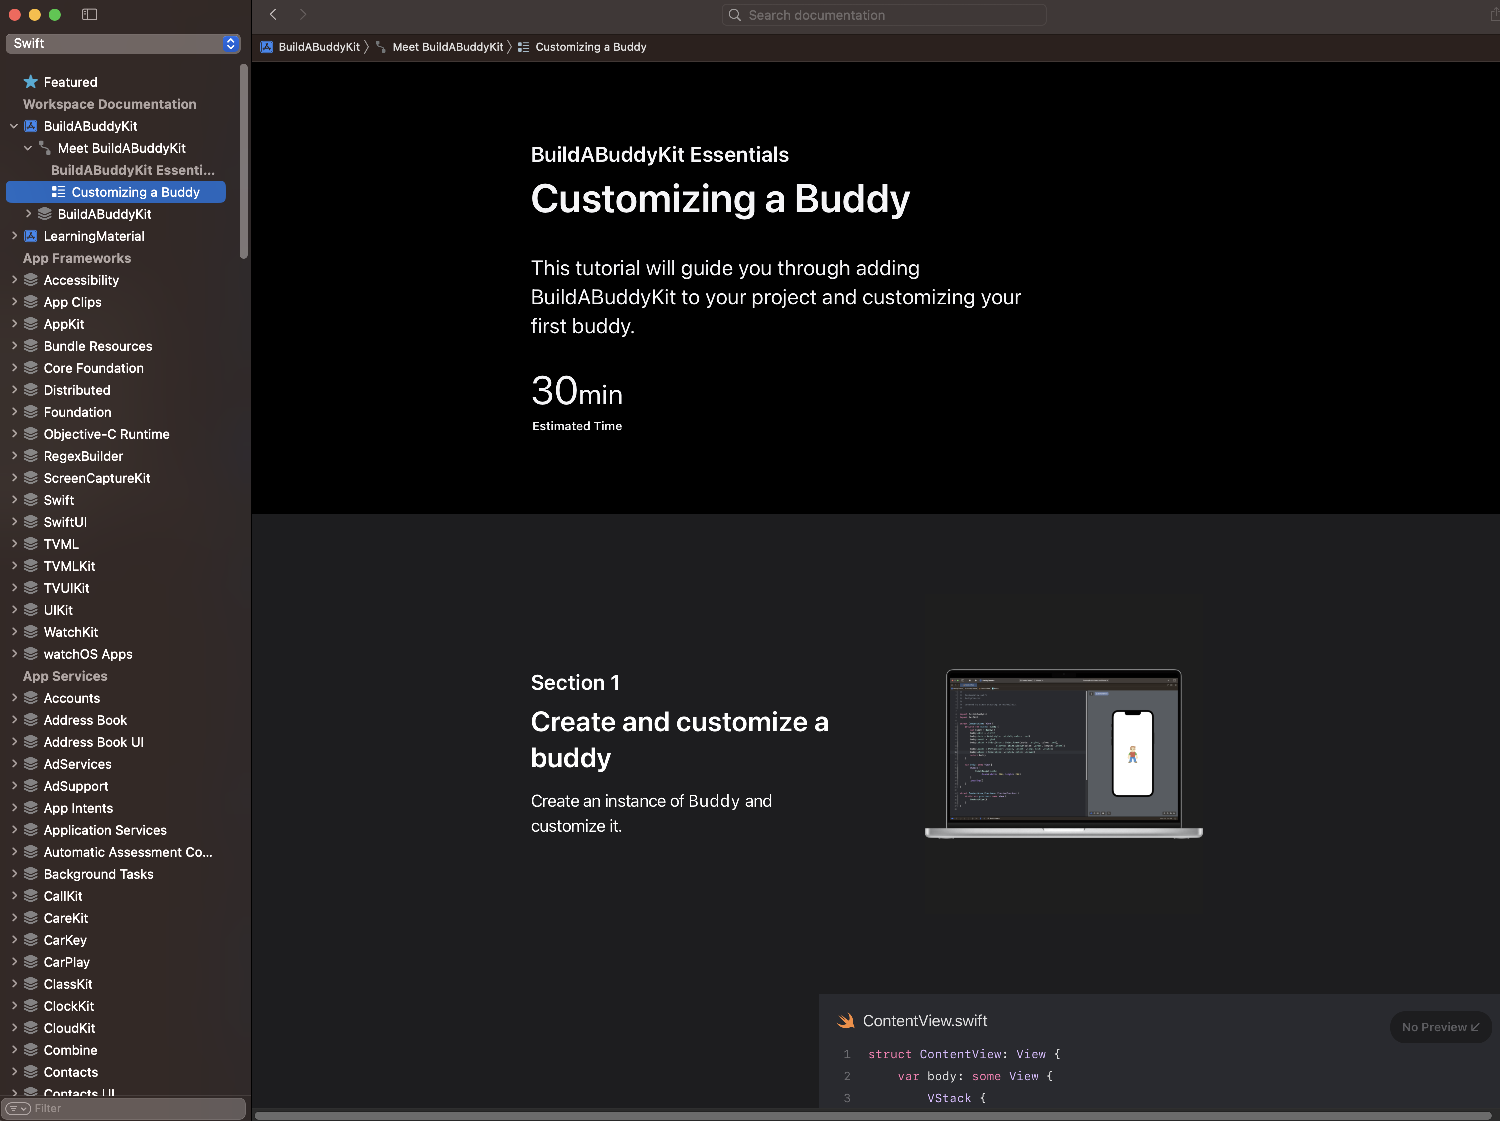
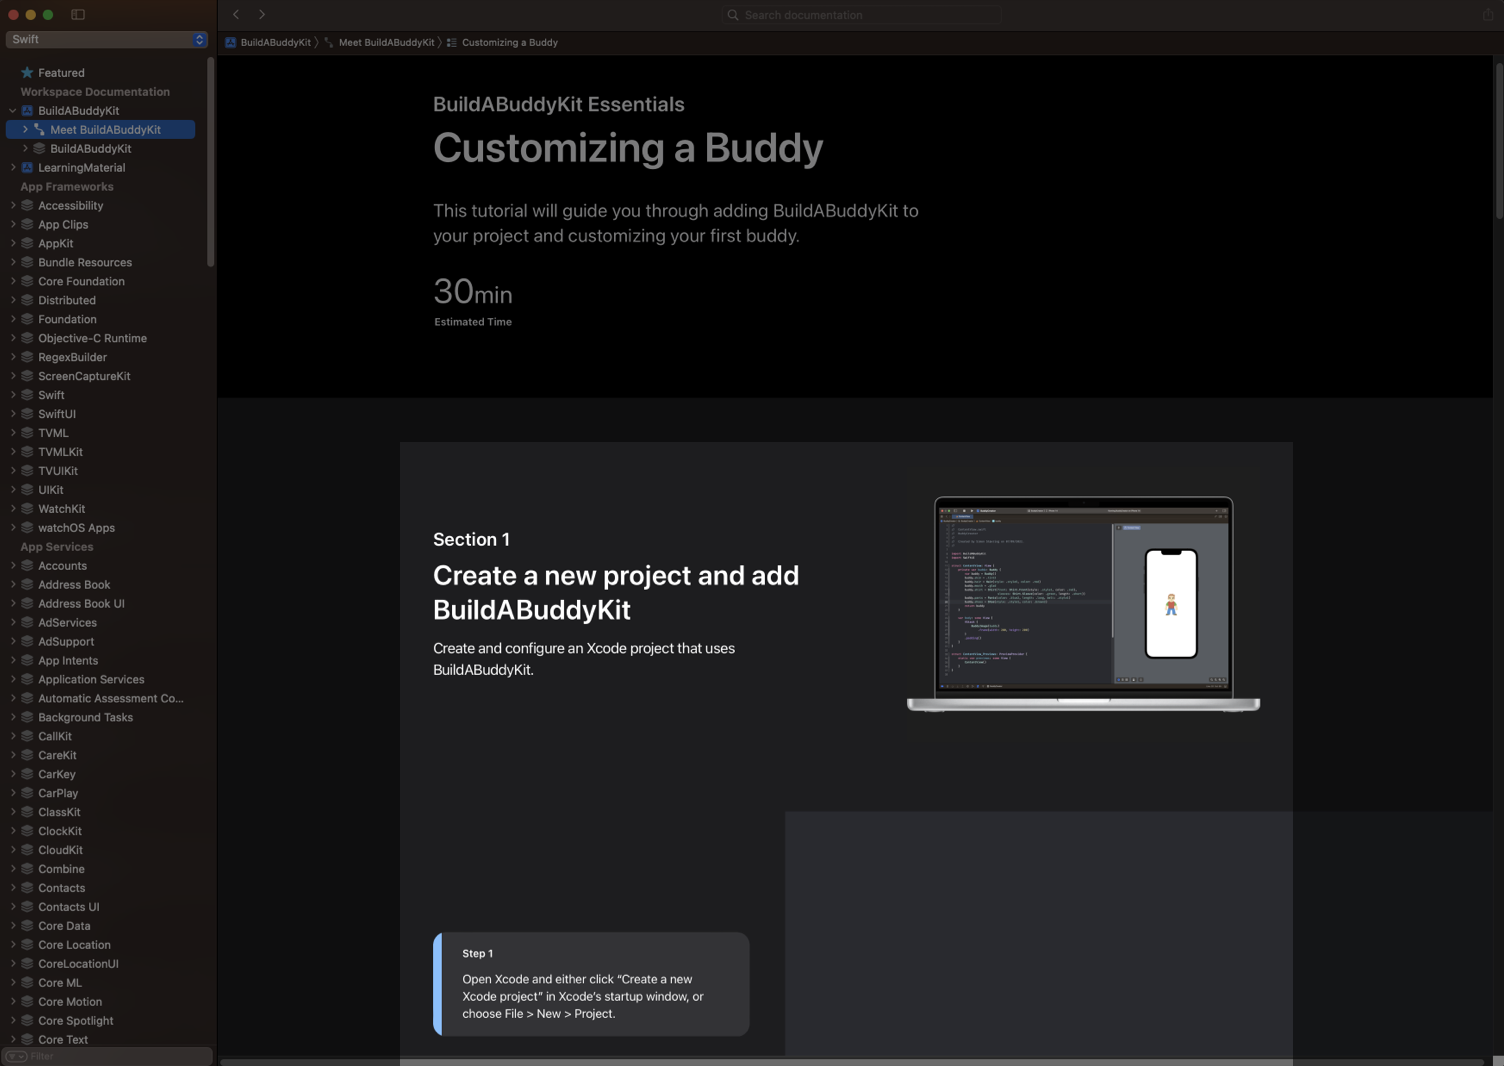
Adds missing step

diff --git a/LearningMaterial/Sources/LearningMaterial/Documentation.docc/Tutorials/02-adding-a-tutorial-02-16.swift b/LearningMaterial/Sources/LearningMaterial/Documentation.docc/Tutorials/02-adding-a-tutorial-02-16.swift
@@ -1,0 +1,133 @@
+@Tutorial(time: 30) {
+    @Intro(title: "Customizing a Buddy") {
+        This tutorial will guide you through adding BuildABuddyKit to your project and customizing your first buddy.
+    }
+
+    @Section(title: "Create a new project and add BuildABuddyKit") {
+        @ContentAndMedia {
+            Create and configure an Xcode project that uses BuildABuddyKit.
+
+            @Image(source: 01-customizing-a-buddy-01.png, alt: "A MacBook Pro running Xcode.")
+        }
+
+        @Steps {
+            @Step {
+                Open Xcode and either click "Create a new Xcode project" in Xcode’s startup window, or choose File > New > Project.
+
+                @Image(source: 01-customizing-a-buddy-01-01.png, alt: "A screenshot of the Welcome to Xcode screen, which displays when you open Xcode. There are three options to choose from when you open Xcode: Create a new Xcode project, Clone an existing project, and Open a project or file. The first option — Create a new Xcode project — is highlighted.")
+            }
+
+            @Step {
+                In the template selector, select iOS as the platform, select the App template, and then click Next.
+
+                @Image(source: 01-customizing-a-buddy-01-02.png, alt: "A screenshot of the template selector sheet in Xcode. In the top row, iOS is selected as the platform. In the Application section, App is selected as the template; there is a highlight placed over the Next button at the lower-right of the sheet.")
+            }
+
+            @Step {
+                Enter "BuddyCreator" as the product name, select "SwiftUI" for the interface, and select "Swift" for the language, and click Next. Choose a location to save the BuddyCreator project on your Mac.
+
+                @Image(source: 01-customizing-a-buddy-01-03.png, alt: "A screenshot of the project sheet, which shows the Product Name for the app being built as TextCompanion. The interface is set to Storyboard, and the language is set to Swift.")
+            }
+
+            @Step {
+                Add BuildABuddyKit as a Swift Package to your project by right-clicking your project in the Project navigator and selecting "Add Packages…"
+
+                @Image(source: 01-customizing-a-buddy-01-04.png, alt: "A screenshot of the Project navigator, which shows right-click menu with the Add Packages menu item highlighted.")
+            }
+
+            @Step {
+                Search for "https://github.com/simonbs/BuildABuddyKit" and select BuildABuddyKit in the search results. Specify a dependency rule, select the TextCompanion project under "Add to Project", and then select "Add Package".
+
+                @Image(source: 01-customizing-a-buddy-01-05.png, alt: "A screenshot of the Add Package sheet, which shows the URL for the BuildABuddyKit GitHub repository in the search field. The search field, the BuildABuddyKit search result, the Dependency Rule, the Add to Project field, and the Add Package button are highlighted.")
+            }
+
+            @Step {
+                Add BuildABuddyKit's package product to the BuddyCreator target and select "Add Package".
+
+                @Image(source: 01-customizing-a-buddy-01-06.png, alt: "A screenshot of the Add Package showing the BuildABuddyKit package product being added to the BuddyCreator target. BuildABuddyKit's package product, the BuddyCreator target, and the Add Package button are highlighted.")
+            }
+        }
+    }
+
+    @Section(title: "Create and customize a buddy") {
+        @ContentAndMedia {
+            Create an instance of `Buddy` and customize it.
+
+            @Image(source: 01-customizing-a-buddy-01.png, alt: "A MacBook Pro running Xcode.")
+        }
+
+        @Steps {
+            @Step {
+                Select `ContentView.swift` in the Project navigator.
+
+                @Code(name: "ContentView.swift", file: 01-customizing-a-buddy-01-01.swift)
+            }
+
+            @Step {
+                Add a private property named `buddy` that returns an instance of `Buddy`.
+
+                @Code(name: "ContentView.swift", file: 01-customizing-a-buddy-01-02.swift) {
+                    @Image(source: 01-customizing-a-buddy-01-07.png, alt: "A screenshot of the iPhone simulator showing a globe icon and the text \"Hello, world!\".")
+                }
+            }
+
+            @Step {
+                Add a `BuddyImage` and pass it the value of `buddy`.
+
+                @Code(name: "ContentView.swift", file: 01-customizing-a-buddy-01-03.swift) {
+                    @Image(source: 01-customizing-a-buddy-01-08.png, alt: "A screenshot of the iPhone simulator showing a buddy.")
+                }
+            }
+
+            @Step {
+                Start customizing the buddy by changing the skin tone.
+
+                @Code(name: "ContentView.swift", file: 01-customizing-a-buddy-01-04.swift) {
+                    @Image(source: 01-customizing-a-buddy-01-09.png, alt: "A screenshot of the iPhone simulator showing a buddy with a changed skin tone.")
+                }
+            }
+
+            @Step {
+                Change the hair of the buddy.
+
+                @Code(name: "ContentView.swift", file: 01-customizing-a-buddy-01-05.swift) {
+                    @Image(source: 01-customizing-a-buddy-01-10.png, alt: "A screenshot of the iPhone simulator showing a buddy with changed hair.")
+                }
+            }
+
+            @Step {
+                Change the mouth of the buddy.
+
+                @Code(name: "ContentView.swift", file: 01-customizing-a-buddy-01-06.swift) {
+                    @Image(source: 01-customizing-a-buddy-01-11.png, alt: "A screenshot of the iPhone simulator showing a buddy with a changed mouth.")
+                }
+            }
+
+            @Step {
+                Change the buddy's shirt.
+
+                Notice that the color of the front of the shirt and the color of the sleeves can be specified independently.
+
+                @Code(name: "ContentView.swift", file: 01-customizing-a-buddy-01-07.swift) {
+                    @Image(source: 01-customizing-a-buddy-01-12.png, alt: "A screenshot of the iPhone simulator showing a buddy with a new shirt.")
+                }
+            }
+
+            @Step {
+                Change the buddy's pants.
+
+                @Code(name: "ContentView.swift", file: 01-customizing-a-buddy-01-08.swift) {
+                    @Image(source: 01-customizing-a-buddy-01-13.png, alt: "A screenshot of the iPhone simulator showing a buddy with new pants.")
+                }
+            }
+
+            @Step {
+                Finally, change the buddy's shoes.
+
+                @Code(name: "ContentView.swift", file: 01-customizing-a-buddy-01-09.swift) {
+                    @Image(source: 01-customizing-a-buddy-01-14.png, alt: "A screenshot of the iPhone simulator showing a buddy with new shoes.")
+                }
+            }
+        }
+    }
+}
